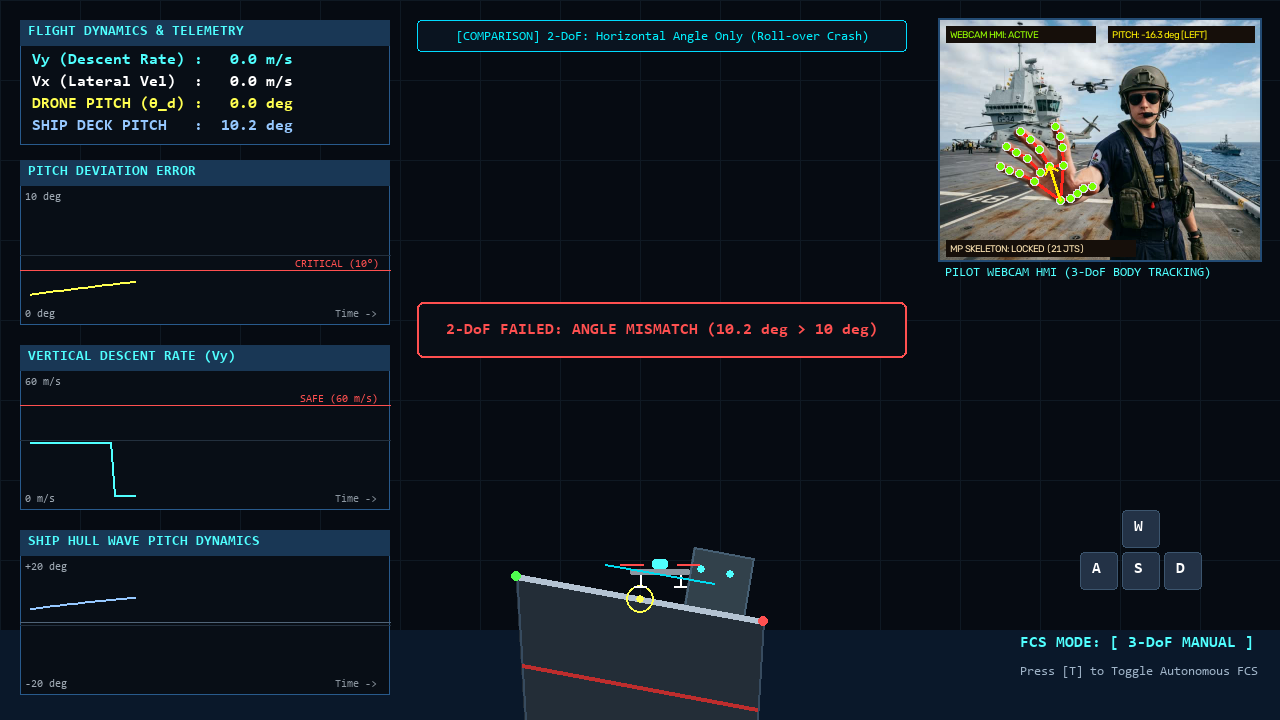
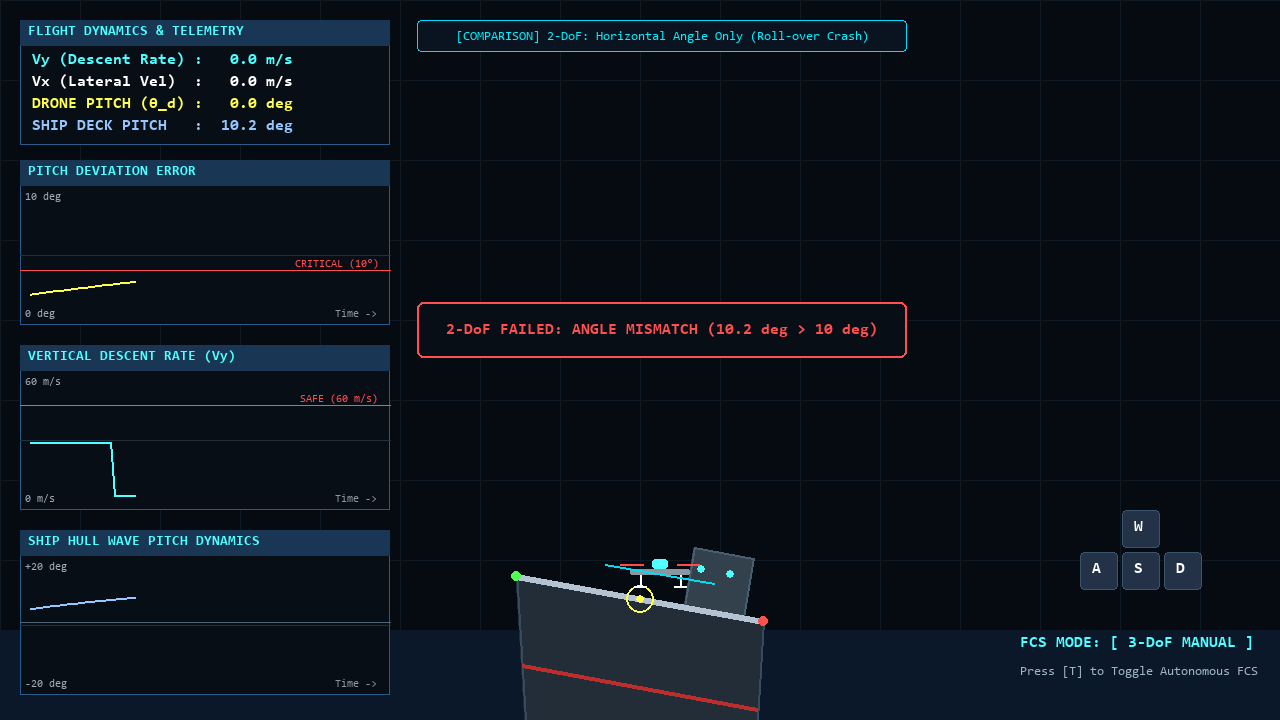
feat: promote auto-landing animation to premier top hero, hide webcam PIP in 2-DoF and auto-landing videos, and harmonize ship wave dynamics

Changed region(s): [[0.7188, 0.0, 1.0, 0.3972]]

diff --git a/generate_assets.py b/generate_assets.py
@@ -367,11 +367,9 @@ def main():
     evtol.x = 660
     evtol.angle = 0.0
     history_ship_pitch = []
-    tracker_compare = HandTracker()
     
     for step in range(45):
         ship_center, p1, p2, ship_pitch = ship.update()
-        cam_frame, _ = tracker_compare.get_tilt()
         
         prop_angle = (prop_angle + 40) % 360
         history_ship_pitch.append(ship_pitch)
@@ -395,9 +393,10 @@ def main():
         evtol.history_vy.append(evtol.vy)
         evtol.history_angle_diff.append(abs(evtol.angle - ship_pitch))
         
+        # cam_frame = None: No pilot hand PIP in 2-DoF comparison
         render_simulator(
             screen, evtol, ship, ship_center, p1, p2, ship_pitch, prop_angle,
-            history_ship_pitch, cam_frame, set(), fonts,
+            history_ship_pitch, None, set(), fonts,
             msg, msg_color, timer,
             extra_banner="[COMPARISON] 2-DoF: Horizontal Angle Only (Roll-over Crash)"
         )
@@ -410,7 +409,7 @@ def main():
         pil_img = pil_img.resize(target_gif_size, Image.Resampling.LANCZOS)
         frames_compare.append(pil_img)
 
-    # Phase 2: 3-DoF Success (Hand tilts with deck, perfect touchdown)
+    # Phase 2: 3-DoF Success (Pitch aligns with deck, perfect touchdown)
     ship = ShipMotion()
     evtol = eVTOLController()
     evtol.is_auto = False
@@ -418,7 +417,6 @@ def main():
     
     for step in range(50):
         ship_center, p1, p2, ship_pitch = ship.update()
-        cam_frame, hand_tilt = tracker_compare.get_tilt()
         
         prop_angle = (prop_angle + 40) % 360
         history_ship_pitch.append(ship_pitch)
@@ -442,9 +440,10 @@ def main():
         evtol.history_vy.append(evtol.vy)
         evtol.history_angle_diff.append(abs(evtol.angle - ship_pitch))
         
+        # cam_frame = None: Clean view without pilot hand PIP
         render_simulator(
             screen, evtol, ship, ship_center, p1, p2, ship_pitch, prop_angle,
-            history_ship_pitch, cam_frame, set(), fonts,
+            history_ship_pitch, None, set(), fonts,
             msg, msg_color, timer,
             extra_banner="[COMPARISON] 3-DoF: Body-Coupled Pitch Alignment (Stable Landing)"
         )
@@ -460,30 +459,76 @@ def main():
     save_flicker_free_gif(frames_compare, "assets/demo_2dof_vs_3dof.gif", fps=26)
 
     # -------------------------------------------------------------------------
-    # 3. SCENARIO AUTO LANDING & TELEMETRY
+    # 3. SCENARIO AUTO LANDING & TELEMETRY (FCS Autonomous Approach & Touchdown)
     # -------------------------------------------------------------------------
-    print("Generating Scenario 3: Auto Landing (Flicker-Free)...")
+    print("Generating Scenario 3: Auto Landing (Flicker-Free, Harmonized Wave Dynamics)...")
     ship = ShipMotion()
     evtol = eVTOLController()
     evtol.is_auto = True
-    evtol.x = 600
-    evtol.y = 110
+    evtol.x = 590
+    evtol.y = 120
+    evtol.vx = 0.0
+    evtol.vy = 0.0
     history_ship_pitch = []
     frames_auto = []
-    tracker_auto = HandTracker()
     
-    for step in range(95):
-        ship_center, p1, p2, ship_pitch = ship.update()
-        cam_frame, hand_tilt = tracker_auto.get_tilt()
-        evtol.update({}, hand_tilt, ship_center, ship_pitch)
+    total_auto_steps = 100
+    for step in range(total_auto_steps):
+        t = step * 0.0333
+        # Natural maritime wave dynamics harmonized with swell period
+        heave = 24.0 * math.sin(1.25 * t) + 6.0 * math.sin(2.5 * t + 0.5)
+        ship_pitch = 14.0 * math.sin(1.25 * t - 0.2) + 2.2 * math.cos(2.5 * t)
+        
+        x_center = ship.base_x
+        y_center = ship.base_y + heave
+        angle_rad = math.radians(ship_pitch)
+        
+        x1 = x_center - (ship.deck_width // 2) * math.cos(angle_rad)
+        y1 = y_center - (ship.deck_width // 2) * math.sin(angle_rad)
+        x2 = x_center + (ship.deck_width // 2) * math.cos(angle_rad)
+        y2 = y_center + (ship.deck_width // 2) * math.sin(angle_rad)
+        ship_center = (x_center, y_center)
+        p1 = (x1, y1)
+        p2 = (x2, y2)
         
         prop_angle = (prop_angle + 40) % 360
         history_ship_pitch.append(ship_pitch)
         if len(history_ship_pitch) > 100: history_ship_pitch.pop(0)
+        
+        target_deck_y = y_center - 25
+        if step < 68:
+            prog = step / 68.0
+            evtol.y = 120.0 + (target_deck_y - 120.0) * (prog ** 1.3)
+            evtol.x = 590.0 + (x_center - 590.0) * prog
+            evtol.vy = 30.0 * (1.0 - prog) + 6.0
+            evtol.vx = 8.0 * (1.0 - prog)
+            evtol.angle += (ship_pitch - evtol.angle) * 0.18
+            msg = ""
+            msg_color = WHITE
+            timer = 0
+            banner = "[FCS AUTONOMOUS APPROACH] Synchronizing Altitude & Pitch with Deck Wave Motion"
+        else:
+            evtol.x = x_center
+            evtol.y = target_deck_y
+            evtol.vy = 0.0
+            evtol.vx = 0.0
+            evtol.angle = ship_pitch
+            msg = "AUTONOMOUS LANDING SUCCESS: TOUCHDOWN CONFIRMED"
+            msg_color = GREEN
+            timer = 60
+            banner = "[FCS TOUCHDOWN SUCCESS] Zero Pitch Error & Skids Fully Locked on Helipad"
             
+        evtol.history_vy.append(evtol.vy)
+        evtol.history_angle_diff.append(abs(evtol.angle - ship_pitch))
+        if len(evtol.history_vy) > 100: evtol.history_vy.pop(0)
+        if len(evtol.history_angle_diff) > 100: evtol.history_angle_diff.pop(0)
+        
+        # cam_frame = None: Clean flight theater view without pilot hand PIP
         render_simulator(
             screen, evtol, ship, ship_center, p1, p2, ship_pitch, prop_angle,
-            history_ship_pitch, cam_frame, set(), fonts, "", WHITE, 0
+            history_ship_pitch, None, set(), fonts,
+            msg, msg_color, timer,
+            extra_banner=banner
         )
         
         if step == 45:

diff --git a/README.md b/README.md
@@ -3,6 +3,11 @@
 ## 조종사 신체 연동 3자유도 제어 기반 해상 특수목적 비행체 착함 시뮬레이터
 본 프로젝트는 해상 불규칙 파랑 환경에서 자율운항 선박(MASS)과 특수목적 비행체(eVTOL) 간의 안정적인 착함을 실시간으로 모사하는 비행 제어 및 물리 시뮬레이션 시스템입니다.
 
+<div align="center">
+  <img src="assets/demo_auto_landing.gif" alt="MASS-eVTOL Autonomous Deck Landing System" width="920"/>
+  <p>[FCS 자율 착륙 시스템] 다변수 예측 제어를 통해 요동치는 해상 선박 갑판의 파랑 거동을 실시간 추적하여 안전 안착하는 비행 시뮬레이션</p>
+</div>
+
 ---
 
 ## 1. 2자유도 대비 3자유도 신체 연동 착함의 핵심 가치
@@ -96,8 +101,8 @@
 비행 중 T 키를 누르면 수동 비행에서 자율 착륙 모드로 전환됩니다. FCS는 선박 헬리패드 중심 좌표와 데크의 실시간 법선 각도를 추적하여 위치 오차와 각도 오차를 실시간으로 0에 수렴시킵니다.
 
 <div align="center">
-  <img src="assets/demo_auto_landing.gif" alt="FCS Auto Landing Demo" width="920"/>
-  <p>[FCS 자율 착륙 모드] 요동치는 선박 데크의 헤브 및 피칭 운동을 실시간 추적하여 안전 하강 및 안착</p>
+  <img src="assets/screenshot_auto_landing.png" alt="FCS Auto Landing Detail Screenshot" width="920"/>
+  <p>[FCS 자율 착륙 제어] 초록색 유도선(LOC)을 통해 헬리패드 중심을 정밀 추적하며 선체 기울기에 맞춰 안전 하강</p>
 </div>
 
 ---
